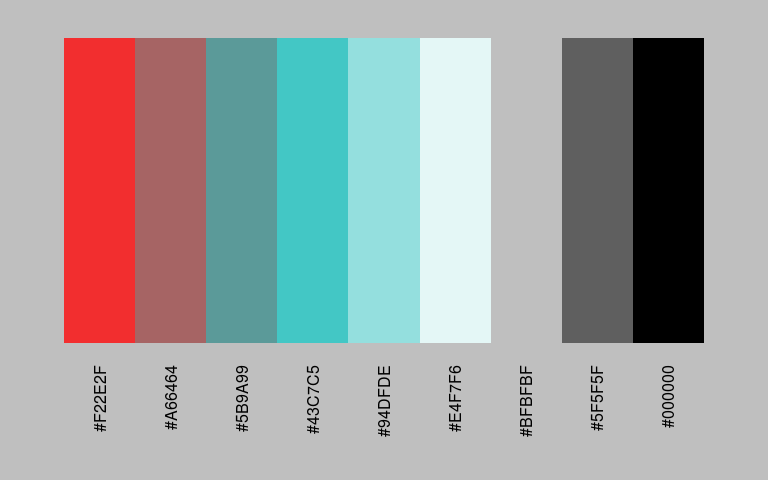
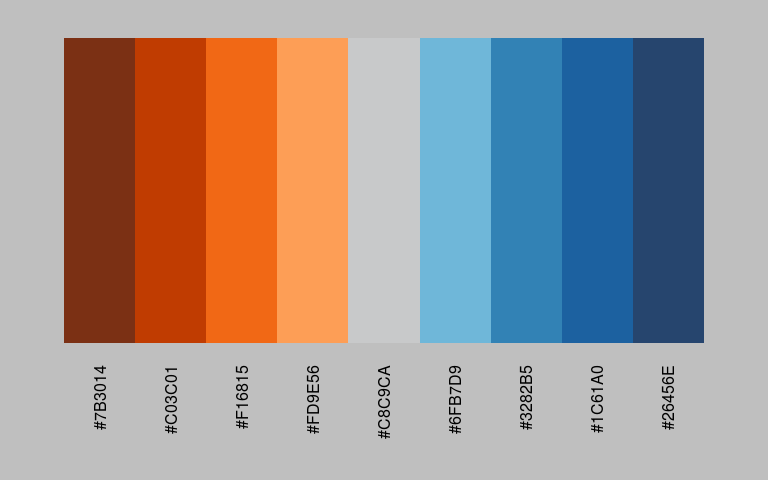
typo

diff --git a/README.md b/README.md
@@ -16,7 +16,7 @@ Install using `devtools::install_github("onehundredpercenttexan/colourgen")`
 
 The `colourgen` package provides a single, consistent interface for generating colour palettes in R. The `colourgen::make_palette` function returns a list object containing a base graphics `plot` preview and `palette` character vector which make generating, inspecting and fine-tuning color palettes a breeze.
 
-The `colour` parameter will accept any base R color function, `RColorBrewer` named palette, `viridis` named palette or variable-length character vector of any combination of base `grDevices::colours` and hexidecimal colors.
+The `colour` parameter will accept any base R color function, `RColorBrewer` named palette, `viridis` named palette or variable-length character vector of any combination of base `grDevices::colours` and hexadecimal colors.
 
 There aren't enough good diverging palettes so `colourgen::make_palette` will default some right out-of-the box.
 
@@ -66,6 +66,10 @@ If you want to interpolate a palette that normally has a hard limit; don't worry
 `colourgen` also supports the [COLOURLovers](http://www.colourlovers.com/palettes) palette API. Just supply a valid paletteID and you can interpolate over that palette 'til your heart's content.
 
 `colourgen::make_palette(colour = 3914747, n = 9)`
+
+    ## Empty or Unknown Colour(s)... 
+    ##   Defaulting to Tableau-esque 
+    ##   Orange-Blue Diverging Palette
 
 ![](README_files/figure-markdown_github-ascii_identifiers/unnamed-chunk-5-1.png)
 
